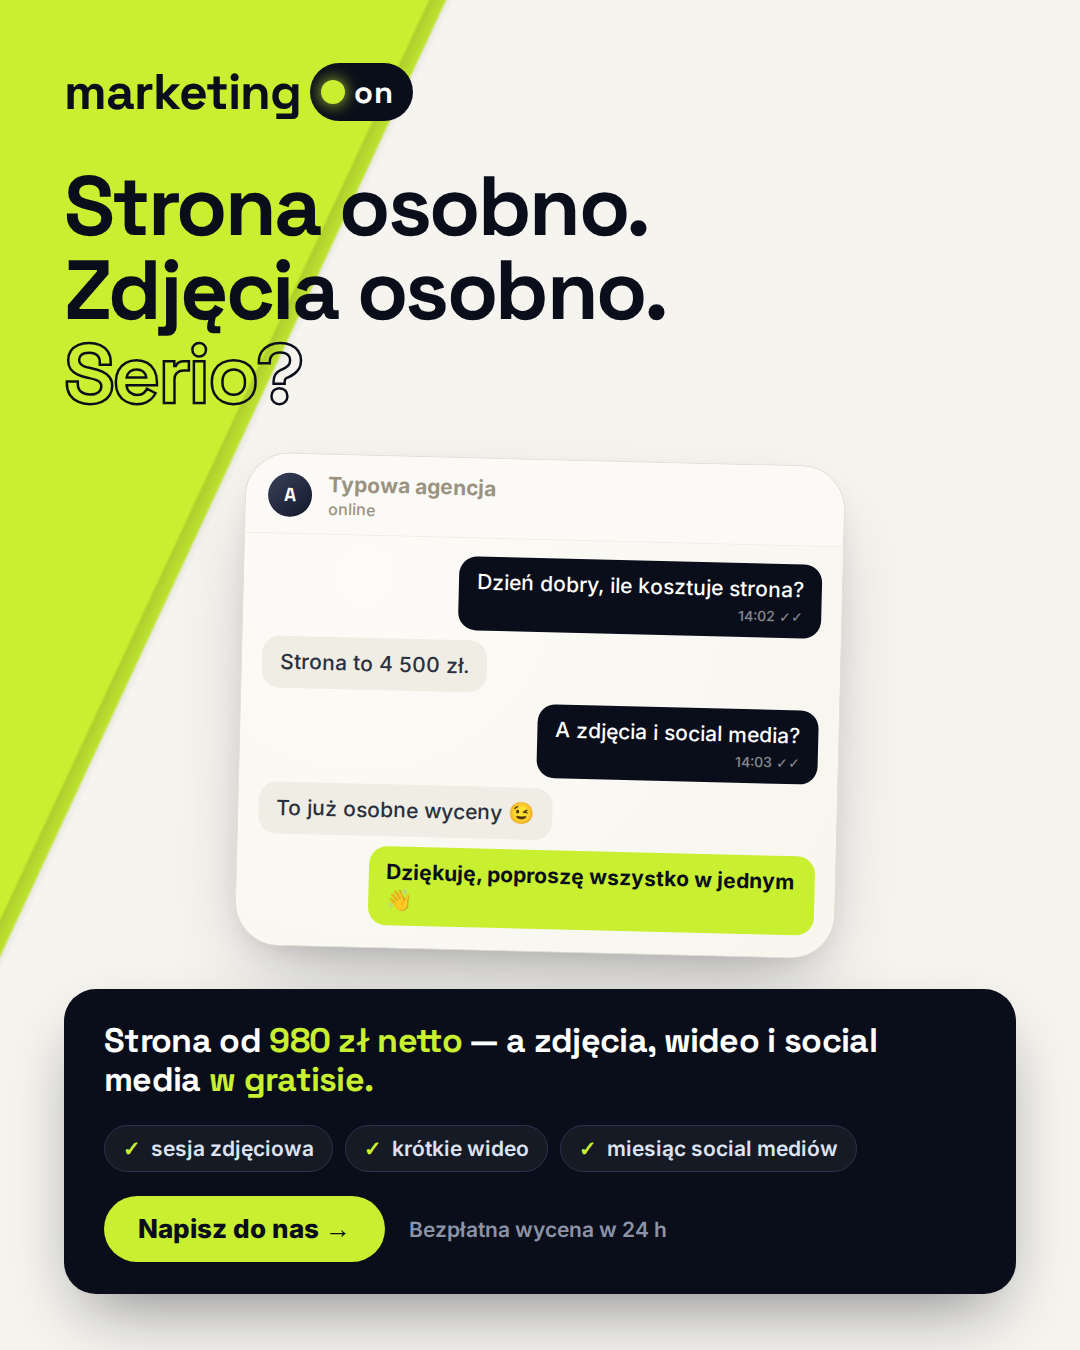
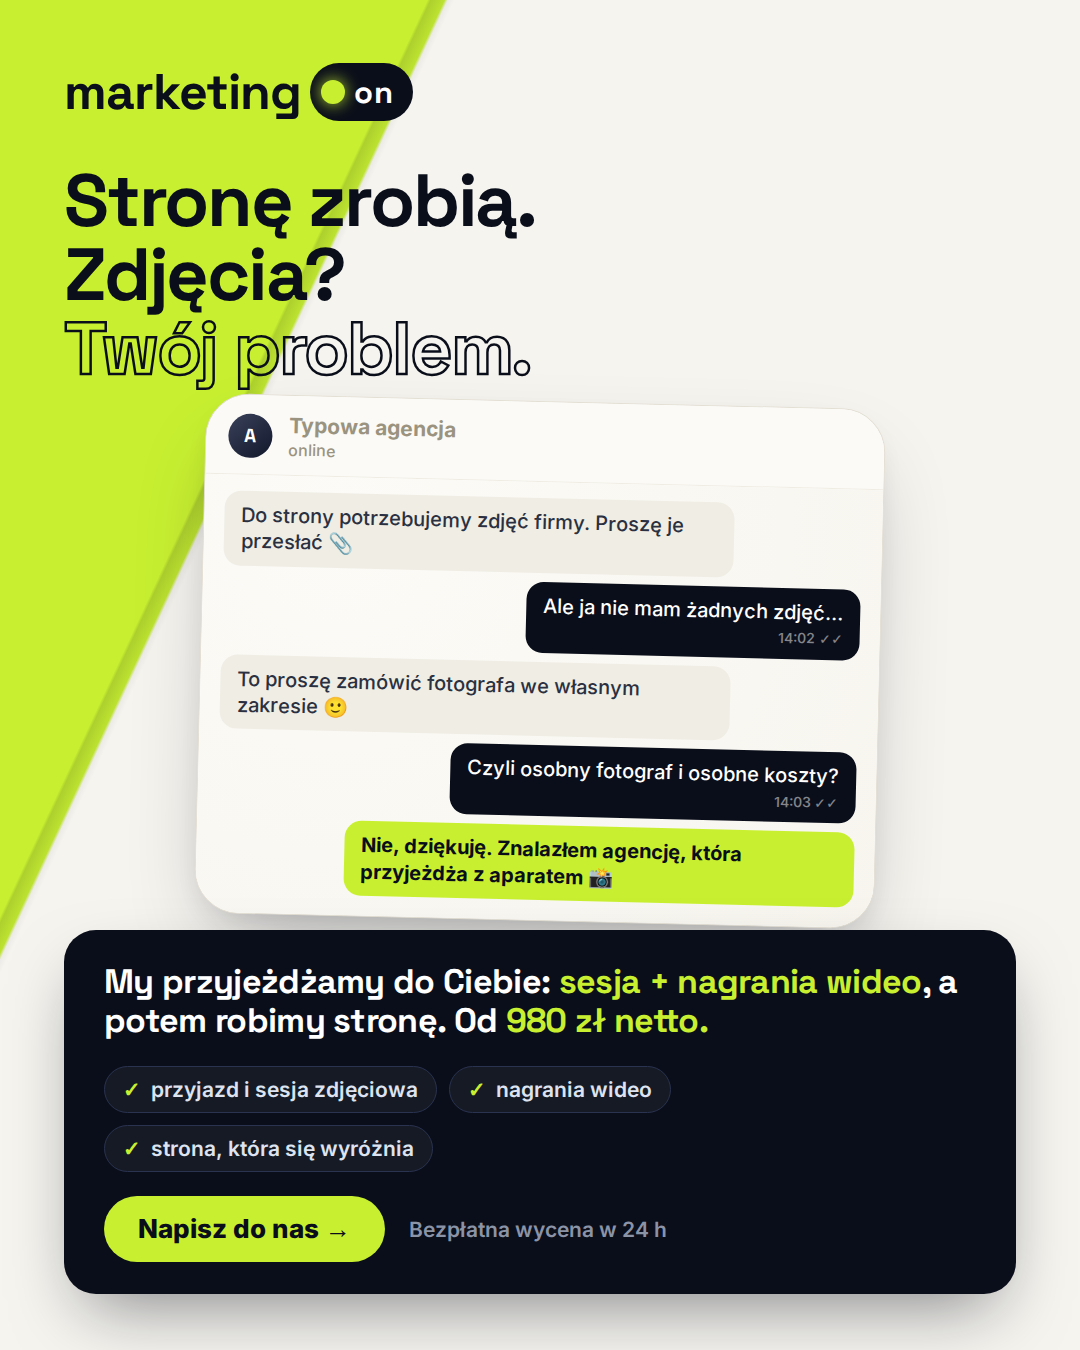
Przekieruj kampanie na wyroznik: przyjazd z sesja i nagrywkami
- v3: czat-problem — typowa agencja kaze dostarczyc zdjecia we wlasnym zakresie
- v4 (nowy): czat-rozwiazanie — rozmowa z marketing.on: przyjazd, sesja, wideo, strona
- render.sh obejmuje v4, ciasniejszy uklad feedu w v3

Claude-Session: https://claude.ai/code/session_018cPE5fQDHkGpK74B5CtJMV

Changed region(s): [[0.0611, 0.1244, 0.9472, 0.8711]]

diff --git a/ads/v4-rozmowa-z-nami.html b/ads/v4-rozmowa-z-nami.html
@@ -1,4 +1,4 @@
-<!-- marketing.on — wariant 3: z pazurem (czat, styl CalmSite) -->
+<!-- marketing.on — wariant 4: rozmowa z nami (czat, pozytywne lustro v3) -->
 <meta charset="utf-8">
 <link rel="stylesheet" href="fonts/fonts.css">
 <style>
@@ -11,8 +11,8 @@
   .canvas{position:relative;width:1080px;overflow:hidden;background:var(--paper);display:flex;flex-direction:column}
   body.story .canvas{height:1920px;padding:84px 76px 80px}
   body.feed  .canvas{height:1350px;padding:60px 64px 56px}
-  .slash{position:absolute;inset:0;pointer-events:none;background:linear-gradient(115deg,var(--lime) 0%,var(--lime) 26%,transparent 26.2%)}
-  .slash2{position:absolute;inset:0;pointer-events:none;background:linear-gradient(115deg,transparent 25%,rgba(10,14,26,.14) 25.2%,transparent 26.6%)}
+  .slash{position:absolute;inset:0;pointer-events:none;background:linear-gradient(245deg,var(--lime) 0%,var(--lime) 26%,transparent 26.2%)}
+  .slash2{position:absolute;inset:0;pointer-events:none;background:linear-gradient(245deg,transparent 25%,rgba(10,14,26,.14) 25.2%,transparent 26.6%)}
 
   .brand{display:flex;align-items:center;position:relative}
   .wordmark{font-family:'Space Grotesk';font-weight:700;font-size:50px;letter-spacing:-.02em;display:flex;align-items:center}
@@ -22,7 +22,7 @@
 
   .headline{position:relative;font-family:'Space Grotesk';font-weight:700;letter-spacing:-.03em}
   body.story .headline{font-size:100px;line-height:1.03;margin-top:56px}
-  body.feed  .headline{font-size:74px;line-height:1.0;margin-top:36px}
+  body.feed  .headline{font-size:84px;line-height:1.0;margin-top:42px}
   .headline .q{color:transparent;-webkit-text-stroke:2.5px var(--ink)}
   .sub{position:relative;font-size:34px;line-height:1.4;font-weight:500;color:#3A4152;max-width:900px}
   body.story .sub{margin-top:30px}
@@ -32,10 +32,10 @@
   .chat{position:relative;flex:1;min-height:0;display:flex;align-items:center;justify-content:center;padding:34px 0 26px}
   .phone{width:640px;background:#fff;border-radius:44px;border:1.5px solid var(--line);
     box-shadow:0 40px 90px -28px rgba(10,14,26,.30),0 12px 30px -12px rgba(10,14,26,.14);
-    overflow:hidden;transform:rotate(1.4deg)}
-  body.feed .phone{width:680px}
+    overflow:hidden;transform:rotate(-1.4deg)}
+  body.feed .phone{width:600px}
   .ph-top{display:flex;align-items:center;gap:16px;padding:20px 28px;background:#FBFAF6;border-bottom:1.5px solid #EFECE3}
-  .ph-top .ava{width:52px;height:52px;border-radius:50%;background:linear-gradient(140deg,#39415A,#12182B);display:flex;align-items:center;justify-content:center;color:#fff;font-weight:700;font-size:23px;font-family:'Space Grotesk'}
+  .ph-top .ava{width:52px;height:52px;border-radius:50%;background:var(--lime);display:flex;align-items:center;justify-content:center;color:var(--ink);font-weight:700;font-size:21px;font-family:'Space Grotesk'}
   .ph-top b{display:block;font-size:25px;font-weight:700}
   .ph-top span{display:block;font-size:19px;color:#9A937F;font-weight:500;margin-top:2px}
   .msgs{display:flex;flex-direction:column;gap:13px;padding:24px 26px 28px;background:
@@ -69,8 +69,8 @@
   body.feed .ph-top .ava{width:44px;height:44px;font-size:19px}
   body.feed .ph-top b{font-size:21px}
   body.feed .ph-top span{font-size:16px}
-  body.feed .msgs{gap:9px;padding:16px 20px 20px}
-  body.feed .m{font-size:20px;padding:11px 17px;border-radius:17px}
+  body.feed .msgs{gap:10px;padding:18px 20px 22px}
+  body.feed .m{font-size:21px;padding:12px 18px;border-radius:18px}
   body.feed .m small{font-size:14px;margin-top:4px}
   body.feed .answer h2{font-size:34px}
   body.feed .achip{font-size:21px;padding:10px 18px}
@@ -86,34 +86,34 @@
     <div class="wordmark">marketing<span class="on-badge"><i></i><b>on</b></span></div>
   </div>
 
-  <div class="headline">Stronę zrobią.<br>Zdjęcia?<br><span class="q">Twój problem.</span></div>
-  <div class="sub">W większości agencji zdjęcia musisz załatwić i opłacić osobno. <b>U nas przyjeżdżamy ze sprzętem.</b></div>
+  <div class="headline">Nie masz zdjęć?<br><span class="q">Świetnie się składa.</span></div>
+  <div class="sub">Przyjeżdżamy do Ciebie ze sprzętem: sesja zdjęciowa, nagrania wideo — <b>a potem robimy stronę.</b></div>
 
   <div class="chat">
     <div class="phone">
       <div class="ph-top">
-        <span class="ava">A</span>
-        <span><b>Typowa agencja</b><span>online</span></span>
+        <span class="ava">on</span>
+        <span><b>marketing.on</b><span>online</span></span>
       </div>
       <div class="msgs">
-        <div class="m in">Do strony potrzebujemy zdjęć firmy. Proszę je przesłać 📎</div>
-        <div class="m out">Ale ja nie mam żadnych zdjęć… <small>14:02 ✓✓</small></div>
-        <div class="m in">To proszę zamówić fotografa we własnym zakresie 🙂</div>
-        <div class="m out">Czyli osobny fotograf i osobne koszty? <small>14:03 ✓✓</small></div>
-        <div class="m big">Nie, dziękuję. Znalazłem agencję, która przyjeżdża z aparatem 📸</div>
+        <div class="m out">Chcę stronę, ale nie mam żadnych zdjęć firmy… 😅 <small>9:41 ✓✓</small></div>
+        <div class="m in">Nie szkodzi. Przyjedziemy do Ciebie i zrobimy sesję zdjęciową 📸</div>
+        <div class="m out">A wideo na stronę? <small>9:42 ✓✓</small></div>
+        <div class="m in">Nagramy na miejscu. Potem robimy stronę, która się wyróżnia 🎬</div>
+        <div class="m big">To kiedy możecie wpaść? 😄</div>
       </div>
     </div>
   </div>
 
   <div class="answer">
-    <h2>My przyjeżdżamy do Ciebie: <em>sesja + nagrania wideo</em>, a potem robimy stronę. Od <em>980 zł netto.</em></h2>
+    <h2>Ty nie załatwiasz niczego. <em>Zdjęcia, wideo i stronę</em> robimy my — od <em>980 zł netto.</em></h2>
     <div class="arow">
-      <span class="achip"><em>✓</em> przyjazd i sesja zdjęciowa</span>
-      <span class="achip"><em>✓</em> nagrania wideo</span>
-      <span class="achip"><em>✓</em> strona, która się wyróżnia</span>
+      <span class="achip"><em>✓</em> przyjazd do Ciebie</span>
+      <span class="achip"><em>✓</em> sesja + nagrania</span>
+      <span class="achip"><em>✓</em> strona od 980 zł netto</span>
     </div>
     <div class="cta-row">
-      <span class="cta">Napisz do nas →</span>
+      <span class="cta">Umów przyjazd →</span>
       <span class="handle">Bezpłatna wycena w 24 h</span>
     </div>
   </div>

diff --git a/ads/README.md b/ads/README.md
@@ -3,11 +3,15 @@
 Trzy warianty kreacji reklamowych (Instagram/Facebook) w dwóch formatach:
 Story 1080×1920 oraz post do feedu 1080×1350.
 
+Główny motyw kampanii (warianty czatowe 3 i 4): **klient nie musi załatwiać
+zdjęć** — przyjeżdżamy z sesją i nagrywkami, potem robimy stronę.
+
 | Wariant | Plik | Styl |
 |---|---|---|
 | 1. Jasny premium | `v1-jasny-premium.html` | jasne tło, duża typografia, mockup strony, chipy z gratisami |
 | 2. Oferta cenowa | `v2-oferta-cenowa.html` | ciemne tło, cena „od 980 zł" na froncie, checklist gratisów |
-| 3. Z pazurem | `v3-z-pazurem.html` | rozmowa z „typową agencją", puenta ofertowa |
+| 3. Czat — problem | `v3-z-pazurem.html` | „typowa agencja" każe załatwić zdjęcia we własnym zakresie |
+| 4. Czat — rozwiązanie | `v4-rozmowa-z-nami.html` | rozmowa z marketing.on: przyjazd, sesja, nagrywki, strona |
 
 ## Branding (propozycja robocza)
 
